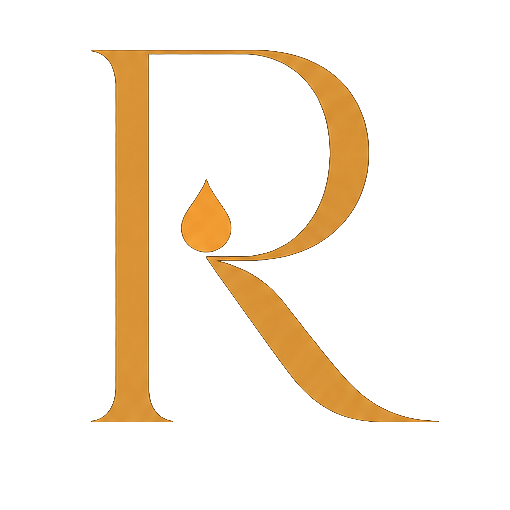
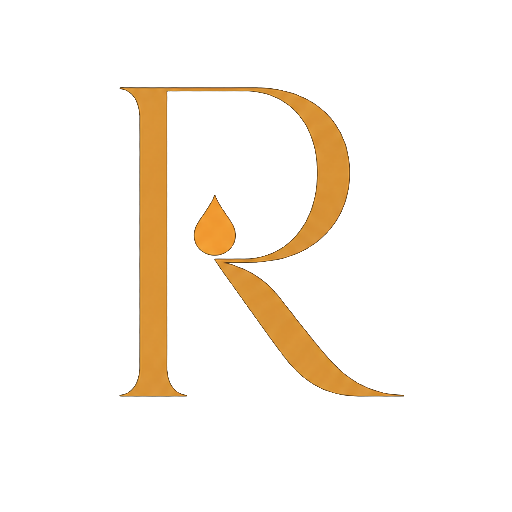
Fix clipped/oversized R monogram in the header
The header glyph was cropped too tight against the R, so at header size
its top serif sat flush with the header edge and read as cut off, and
the mark looked oversized next to the wordmark. Re-centre the R on a
padded transparent canvas (even air on all sides, no wordmark bleed),
trim the header logo to 38px, and cache-bust the asset.

Claude-Session: https://claude.ai/code/session_019kT7NpJRyvnkgRLPjD7LFH

diff --git a/index.html b/index.html
@@ -29,7 +29,7 @@
   <header class="site-header" id="top">
     <div class="container header__inner">
       <a class="brand" href="#top" aria-label="Rasveda Labs home">
-        <img class="brand__logo" src="assets/rasveda-glyph.png" alt="" />
+        <img class="brand__logo" src="assets/rasveda-glyph.png?v=2" alt="" />
         <span class="brand__name">Rasveda<span class="brand__labs">Labs</span></span>
       </a>
 

diff --git a/styles/main.css b/styles/main.css
@@ -165,7 +165,7 @@ a { color: inherit; text-decoration: none; }
 }
 .brand__mark { color: var(--accent); display: inline-flex; }
 .brand__logo {
-  height: 42px; width: auto;
+  height: 38px; width: auto;
   display: block;
 }
 .brand__name {